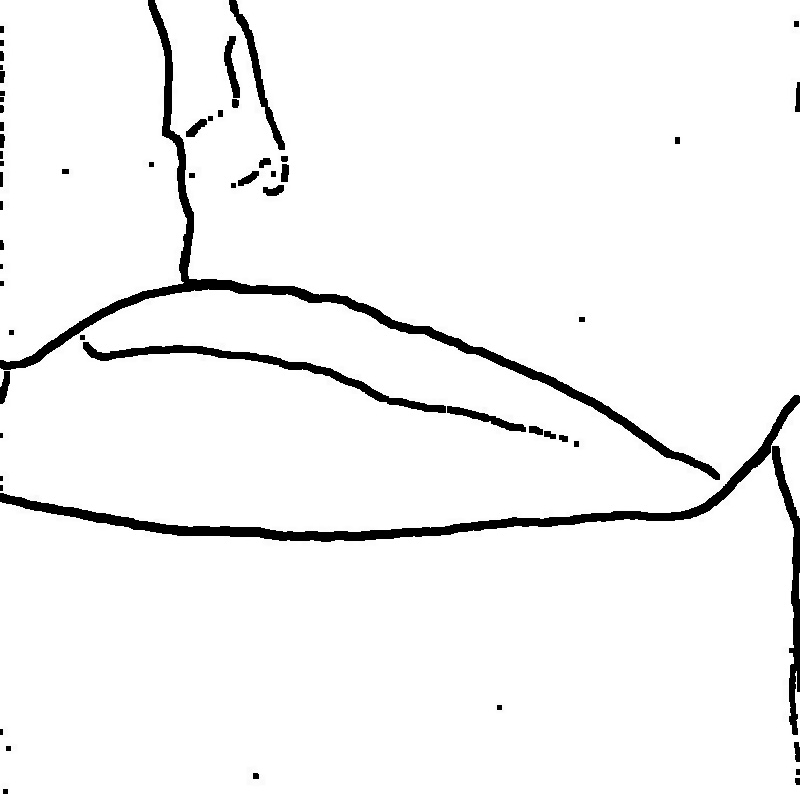
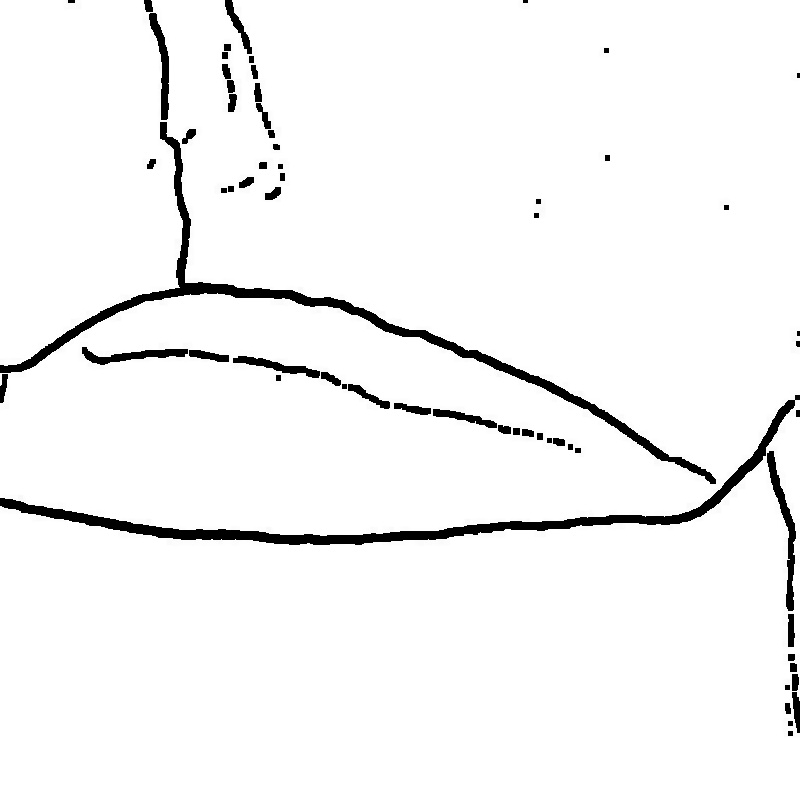
Update

diff --git a/code/test.py b/code/test.py
@@ -1,3 +1,5 @@
+#Test File
+
 import scipy.ndimage.morphology as m
 import cv2
 import numpy as np
@@ -91,6 +93,29 @@ def erode(fileName):
     cv2.imshow("erosion",erosion)
     cv2.imwrite("erosion.jpg",erosion)
 
+def skel(img):
+    # load the image, convert it to grayscale, and blur it slightly
+    image = cv2.imread(img)
+    gray = cv2.cvtColor(image, cv2.COLOR_BGR2GRAY)
+    blurred = cv2.GaussianBlur(gray, (3, 3), 0)
+    
+    #apply Canny edge detection
+    canny_img = cv2.Canny(blurred, 150, 200)
+    
+    #apply Distance Transform
+    invert_canny= 255- canny_img
+    dist_trans= cv2.distanceTransform(invert_canny, cv2.DIST_L2, 3)
+    
+    #normalize to visualize dist-transformed img
+    cv2.normalize(dist_trans, dist_trans, 0.0, 1.0, cv2.NORM_MINMAX)
+    
+    # apply dilation
+    kernel=np.ones((5,5), np.uint8)
+    dilate=cv2.dilate(dist_trans,kernel, iterations=1)
+
+    cv2.imshow("dilate",dilate)
+    cv2.waitKey(0)
+
 def skeletonize(img):
     h1 = np.array([[0, 0, 0],[0, 1, 0],[1, 1, 1]])
     m1 = np.array([[1, 1, 1],[0, 0, 0],[0, 0, 0]])
@@ -113,9 +138,27 @@ def skeletonize(img):
             break
     return img
 
-#############################################MAIN####################################################
-#image = cv2.resize((cv2.imread('crack1.jpg')), (1200,1200))
-img = cv2.imread('crack1.jpg')
+def skeletonize2(img):
+
+    #img = img.copy() # don't clobber original
+    skel = cv2.imread(img) #= img.copy()
+
+    skel[:,:] = 0
+    kernel = cv2.getStructuringElement(cv2.MORPH_CROSS, (3,3))
+
+    while True:
+        eroded = cv2.morphologyEx(img, cv2.MORPH_ERODE, kernel)
+        temp = cv2.morphologyEx(eroded, cv2.MORPH_DILATE, kernel)
+        temp  = cv2.subtract(img, temp)
+        skel = cv2.bitwise_or(skel, temp)
+        img[:,:] = eroded[:,:]
+        if cv2.countNonZero(img) == 0:
+            break
+    
+    return skel
+
+#############################################MAIN###################################
+img = cv2.imread('blackwhite.jpg')
 cv2.imwrite("file2.jpg", cv2.resize(img, (800,800)))
 filename = 'file2.jpg'
 selection = False
@@ -177,19 +220,14 @@ if input_img is not None:
                 if k == esc_keycode:
                     cv2.imwrite("file1.jpg", crop_img)
                     enlarge("file1.jpg")
-                    #img = cv2.imread("file1.jpg")
-                    #cv2.imwrite("file3.jpg", cv2.resize("file1.jpg", (1500,1500)))
-                    
-                    #image("file.jpg")
-                    #pixels("file.jpg")
-                    #display()
-
-                    #select("file3.jpg")
-                    erode("file3.jpg")
+                    #erode("file3.jpg")
                     binary("file3.jpg")
-                    #thinning("file1.jpg")
                     erode("binary.jpg")
                     thinning2("binary.jpg")
+                    
+                    s = skeletonize2("binary.jpg")
+                    plt.imshow(s)
+
                     ###
                     img = cv2.imread("erosion.jpg",0)
                     ret,img = cv2.threshold(img,127,255,0)
@@ -198,10 +236,11 @@ if input_img is not None:
                     img = cv2.dilate(img, element, iterations=3)
                     
                     skel = skeletonize(img)
+                    #cv2.imwrite("Skeletonized.jpg", skel)
                     #plt.imshow(skel, cmap="gray", interpolation="nearest")
                     #plt.show()
-
                     ###
+
                     cv2.destroyAllWindows()
                     break
 
